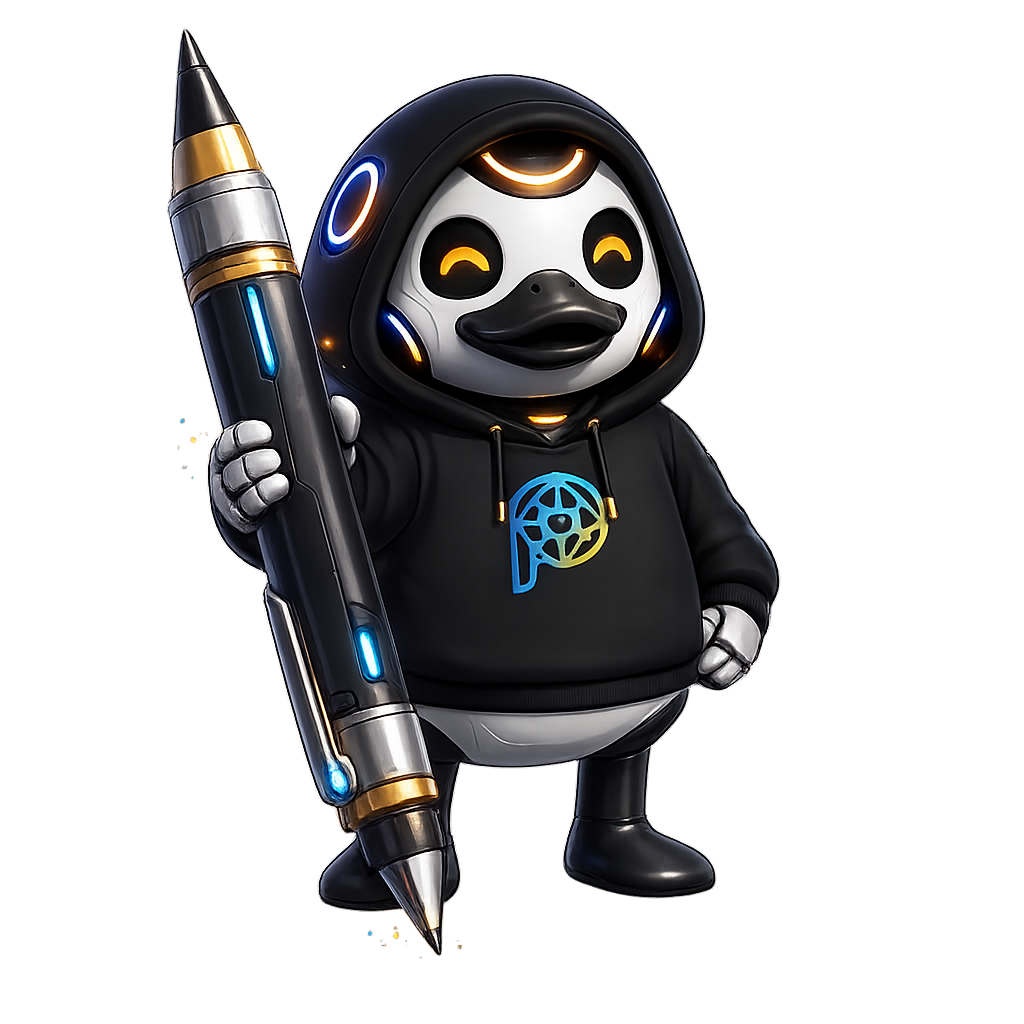
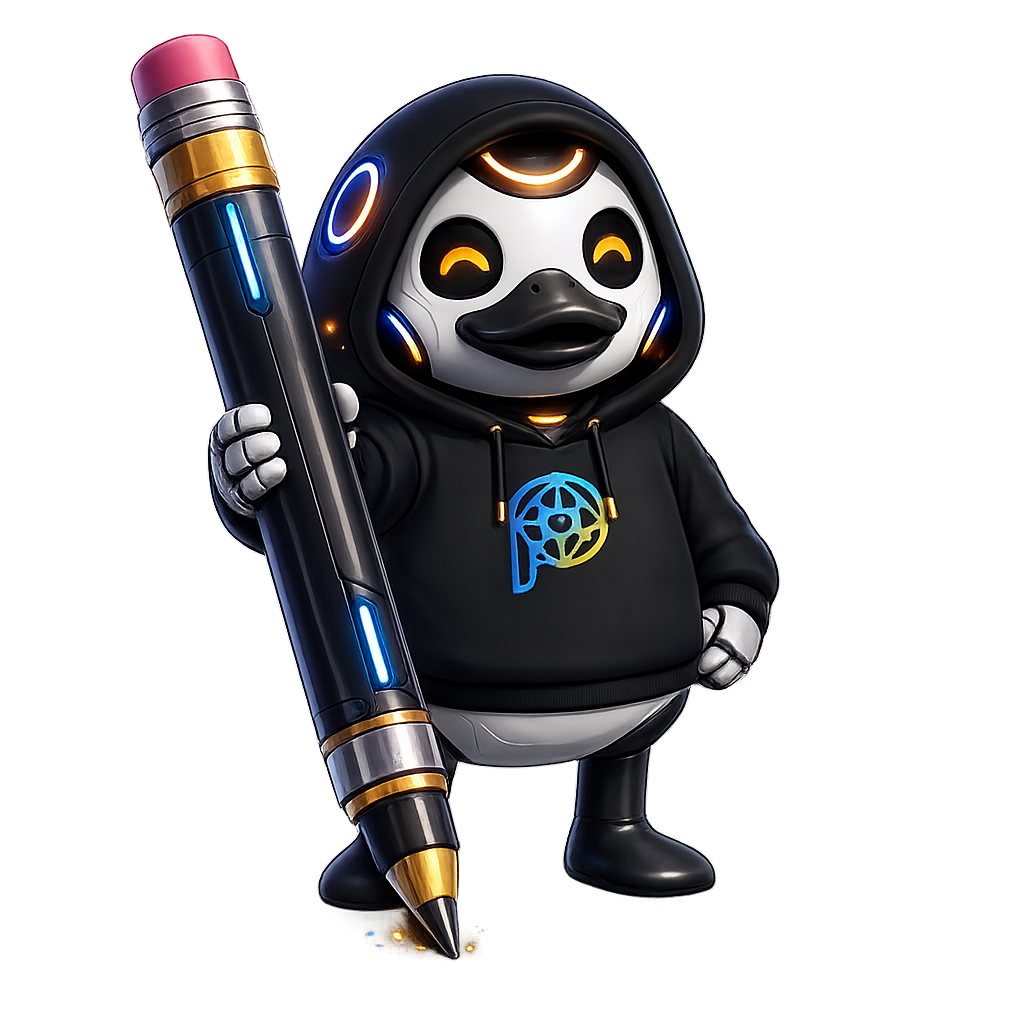
arreglos tamaños profile y matching

diff --git a/src/pages/SchedulePage.tsx b/src/pages/SchedulePage.tsx
@@ -1,9 +1,10 @@
 import { useNavigate } from 'react-router';
 import { motion } from 'motion/react';
-import { ChevronLeft, Trash2, CheckCircle2 } from 'lucide-react';
+import { ChevronLeft, Trash2, CheckCircle2, CalendarDays } from 'lucide-react';
 import { useApp } from '../store/AppContext';
 import { useScheduleStore } from '../store/scheduleStore';
-import { GRADIENT, GOLD_LIGHT, GOLD_GRADIENT } from '../types/mockData';
+import { GOLD_LIGHT, GOLD_GRADIENT } from '../types/mockData';
+import patyHorario from '../assets/patyHorario.png';
 export const SLOTS = [
   { start: '7:00',  startP: 'AM', end: '8:30',  endP: 'AM' },
   { start: '8:30',  startP: 'AM', end: '10:00', endP: 'AM' },
@@ -29,26 +30,31 @@ export function SchedulePage() {
   const { slots, toggle, clear } = useScheduleStore();
   const isSelected  = (day: string, i: number) => slots.includes(`${day}-${i}`);
   const totalSlots  = slots.length;
-  const gridLine = isDark ? '#1E3A5F' : '#F0F0F0';
+  const gridLine = isDark ? '#1E3A5F' : '#E2E8F0';
   const headerBg = isDark ? 'rgba(10,25,47,0.97)' : 'rgba(253,252,248,0.95)';
   const cardBg   = isDark ? '#112240' : '#FFFFFF';
-  const timeTxt  = isDark ? '#4A6080' : '#9CA3AF';
-  const dayTxt   = isDark ? '#6B8AAA' : '#6B7280';
+  const timeTxt  = isDark ? '#4A6080' : '#64748B';
+  const dayTxt   = isDark ? '#6B8AAA' : '#374151';
   return (
-    <div className="min-h-screen" style={{ background: 'transparent' }}>
-      {}
+    <div className="min-h-screen w-full md:w-4/6 md:mx-auto" style={{ background: 'transparent' }}>
       <div
-        className="sticky top-[57px] z-30 px-4 py-3 flex items-center justify-between border-b"
+        className="sticky top-[57px] z-30 px-4 py-2 flex items-center justify-between border-b"
         style={{ background: headerBg, borderColor: gridLine, backdropFilter: 'blur(16px)' }}
       >
-        <div className="flex items-center gap-3">
+        <div className="flex items-center gap-2">
           <button
             onClick={() => navigate(-1)}
-            className="w-9 h-9 rounded-xl flex items-center justify-center"
+            className="w-9 h-9 rounded-xl flex items-center justify-center flex-shrink-0"
             style={{ background: isDark ? '#0A192F' : 'rgba(10,25,47,0.07)', color: timeTxt }}
           >
             <ChevronLeft size={20} />
           </button>
+          <div
+            className="w-9 h-9 rounded-xl flex items-center justify-center flex-shrink-0"
+            style={{ background: GOLD_GRADIENT }}
+          >
+            <CalendarDays size={17} color="white" />
+          </div>
           <div>
             <h1 className="text-gray-900 dark:text-white" style={{ fontSize: '1rem', lineHeight: 1.2 }}>
               Mi Disponibilidad
@@ -60,16 +66,19 @@ export function SchedulePage() {
             </p>
           </div>
         </div>
-        {totalSlots > 0 && (
-          <motion.button
-            whileTap={{ scale: 0.92 }}
-            onClick={clear}
-            className="flex items-center gap-1.5 px-3 py-1.5 rounded-xl text-xs font-semibold"
-            style={{ background: 'rgba(239,68,68,0.1)', color: '#EF4444' }}
-          >
-            <Trash2 size={12} /> Limpiar
-          </motion.button>
-        )}
+        <div className="flex items-center gap-2">
+          <img src={patyHorario} alt="Paty" className="h-24 w-auto drop-shadow-md" style={{ mixBlendMode: isDark ? 'screen' : 'multiply' }} />
+          {totalSlots > 0 && (
+            <motion.button
+              whileTap={{ scale: 0.92 }}
+              onClick={clear}
+              className="flex items-center gap-1.5 px-3 py-1.5 rounded-xl text-xs font-semibold"
+              style={{ background: 'rgba(239,68,68,0.1)', color: '#EF4444' }}
+            >
+              <Trash2 size={12} /> Limpiar
+            </motion.button>
+          )}
+        </div>
       </div>
       {}
       <div className="px-4 pt-3 pb-1">
@@ -77,8 +86,25 @@ export function SchedulePage() {
           Toca cualquier celda para marcarla · Toca de nuevo para quitarla
         </p>
       </div>
-      {}
       <div className="px-3 py-3 pb-10">
+        {totalSlots > 0 && (
+          <motion.div
+            initial={{ opacity: 0, y: -8 }}
+            animate={{ opacity: 1, y: 0 }}
+            className="mb-3 rounded-2xl px-4 py-3 flex items-center gap-3"
+            style={{ background: isDark ? 'rgba(217,119,6,0.08)' : 'rgba(245,158,11,0.10)', border: `1px solid ${GOLD_LIGHT}44` }}
+          >
+            <CheckCircle2 size={18} style={{ color: GOLD_LIGHT }} />
+            <div>
+              <p className="text-sm font-bold" style={{ color: GOLD_LIGHT }}>
+                {totalSlots} franja{totalSlots !== 1 ? 's' : ''} marcada{totalSlots !== 1 ? 's' : ''}
+              </p>
+              <p className="text-[11px]" style={{ color: timeTxt }}>
+                {totalSlots * 1.5} horas de disponibilidad en la semana
+              </p>
+            </div>
+          </motion.div>
+        )}
         <div
           className="rounded-2xl overflow-hidden shadow-sm"
           style={{ background: cardBg, border: `1px solid ${gridLine}` }}
@@ -113,11 +139,11 @@ export function SchedulePage() {
                     style={{ height: SLOT_H, borderRight: `1px solid ${gridLine}` }}
                   >
                     <span className="text-[9px] font-bold leading-none" style={{ color: timeTxt }}>
-                      {slot.start} <span style={{ color: isDark ? '#2A4A6A' : '#D1D5DB' }}>{slot.startP}</span>
+                      {slot.start} <span style={{ color: isDark ? '#2A4A6A' : '#94A3B8' }}>{slot.startP}</span>
                     </span>
-                    <div className="w-6 border-t" style={{ borderColor: isDark ? '#2A4A6A' : '#E5E7EB' }} />
+                    <div className="w-6 border-t" style={{ borderColor: isDark ? '#2A4A6A' : '#CBD5E1' }} />
                     <span className="text-[9px] font-bold leading-none" style={{ color: timeTxt }}>
-                      {slot.end} <span style={{ color: isDark ? '#2A4A6A' : '#D1D5DB' }}>{slot.endP}</span>
+                      {slot.end} <span style={{ color: isDark ? '#2A4A6A' : '#94A3B8' }}>{slot.endP}</span>
                     </span>
                   </div>
                   {}
@@ -133,7 +159,7 @@ export function SchedulePage() {
                           height: SLOT_H,
                           borderRight: di < DAYS.length - 1 ? `1px solid ${gridLine}` : 'none',
                           background: selected
-                            ? (isDark ? 'rgba(217,119,6,0.18)' : 'rgba(245,158,11,0.12)')
+                            ? (isDark ? 'rgba(217,119,6,0.22)' : 'rgba(245,158,11,0.18)')
                             : 'transparent',
                         }}
                       >
@@ -155,25 +181,6 @@ export function SchedulePage() {
             </div>
           </div>
         </div>
-        {}
-        {totalSlots > 0 && (
-          <motion.div
-            initial={{ opacity: 0, y: 8 }}
-            animate={{ opacity: 1, y: 0 }}
-            className="mt-3 rounded-2xl px-4 py-3 flex items-center gap-3"
-            style={{ background: isDark ? 'rgba(217,119,6,0.08)' : 'rgba(245,158,11,0.06)', border: `1px solid ${GOLD_LIGHT}44` }}
-          >
-            <CheckCircle2 size={18} style={{ color: GOLD_LIGHT }} />
-            <div>
-              <p className="text-sm font-bold" style={{ color: GOLD_LIGHT }}>
-                {totalSlots} franja{totalSlots !== 1 ? 's' : ''} marcada{totalSlots !== 1 ? 's' : ''}
-              </p>
-              <p className="text-[11px]" style={{ color: timeTxt }}>
-                {totalSlots * 1.5} horas de disponibilidad en la semana
-              </p>
-            </div>
-          </motion.div>
-        )}
       </div>
     </div>
   );

diff --git a/src/pages/MatchesPage.tsx b/src/pages/MatchesPage.tsx
@@ -6,7 +6,7 @@ import patyImg from '../assets/patyMatch.png';
 import {
   Heart, X, Filter, ChevronDown, Sparkles, Users,
   Clock, LocateFixed, CheckCircle2, Navigation, Send,
-  UserPlus, UserCheck, Zap, Search,
+  UserPlus, UserCheck, Zap, Search, ChevronLeft,
 } from 'lucide-react';
 import { useApp } from '../store/AppContext';
 import { matchUsers, GRADIENT, TEAL, TEAL_GRADIENT, interestOptions } from '../types/mockData';
@@ -148,9 +148,16 @@ export function MatchesPage() {
           : { background: 'rgba(253,252,248,0.92)', borderColor: 'rgba(10,25,47,0.07)', boxShadow: '0 2px 16px rgba(10,25,47,0.07)' }
         }
       >
-        <div className="max-w-2xl mx-auto px-5 pt-4 pb-3">
+        <div className="w-full md:w-4/6 md:mx-auto px-5 pt-4 pb-3">
           <div className="flex items-center justify-between mb-3">
             <div className="flex items-center gap-3">
+              <button
+                onClick={() => navigate(-1)}
+                className="w-9 h-9 rounded-xl flex items-center justify-center flex-shrink-0 text-gray-600 dark:text-gray-400"
+                style={{ background: isDark ? 'rgba(17,34,64,0.8)' : 'rgba(10,25,47,0.07)' }}
+              >
+                <ChevronLeft size={20} />
+              </button>
               <div
                 className="w-12 h-12 rounded-2xl flex items-center justify-center flex-shrink-0 shadow-lg"
                 style={{ background: TEAL_GRADIENT }}
@@ -161,7 +168,7 @@ export function MatchesPage() {
                 <h1 className="text-gray-900 dark:text-white font-black" style={{ fontSize: '1.7rem', lineHeight: 1.1 }}>
                   Perfect Match
                 </h1>
-                <p className="text-xs" style={{ color: isDark ? '#4A6080' : '#9CA3AF' }}>
+                <p className="text-xs" style={{ color: isDark ? '#4A6080' : '#6B7280' }}>
                   {activeTab === 'explore' && 'Encuentra tu tribu universitaria'}
                   {activeTab === 'sent' && `${filteredUsers.length} solicitudes enviadas`}
                   {activeTab === 'received' && `${filteredUsers.length} solicitudes pendientes`}
@@ -196,7 +203,7 @@ export function MatchesPage() {
         </div>
 
         <div className="border-t overflow-x-auto scrollbar-hide" style={{ borderColor: isDark ? '#1E3A5F' : 'rgba(10,25,47,0.07)' }}>
-          <div className="flex gap-1.5 px-5 py-2.5 max-w-2xl mx-auto">
+          <div className="flex gap-1.5 px-5 py-2.5 w-full md:w-4/6 md:mx-auto">
             {tabs.map(tab => {
               const Icon = tab.icon;
               const isActive = activeTab === tab.id;
@@ -225,7 +232,7 @@ export function MatchesPage() {
 
         {(activeTab === 'explore' || activeTab === 'friends') && (
           <div
-            className="border-t px-5 py-2.5 max-w-2xl mx-auto w-full"
+            className="border-t px-5 py-2.5 w-full md:w-4/6 md:mx-auto"
             style={{ borderColor: isDark ? '#1E3A5F' : 'rgba(10,25,47,0.07)' }}
           >
             <div
@@ -255,7 +262,7 @@ export function MatchesPage() {
 
         {activeTab === 'explore' && (
           <div
-            className="border-t px-5 py-2 flex items-center gap-2 max-w-2xl mx-auto w-full"
+            className="border-t px-5 py-2 flex items-center gap-2 w-full md:w-4/6 md:mx-auto"
             style={{ borderColor: isDark ? '#1E3A5F' : 'rgba(10,25,47,0.07)' }}
           >
             <button
@@ -300,7 +307,7 @@ export function MatchesPage() {
               className="overflow-hidden border-t"
               style={{ borderColor: isDark ? '#1E3A5F' : 'rgba(10,25,47,0.07)' }}
             >
-              <div className="px-5 py-4 space-y-3 max-w-2xl mx-auto w-full">
+              <div className="px-5 py-4 space-y-3 w-full md:w-4/6 md:mx-auto">
                 <div>
                   <label className="text-[10px] font-bold uppercase tracking-widest mb-2 block" style={{ color: isDark ? '#4A6080' : '#9CA3AF' }}>
                     Programa
@@ -422,7 +429,7 @@ export function MatchesPage() {
         </AnimatePresence>
       </div>
 
-      <div className="px-4 py-5 pb-28 max-w-2xl mx-auto w-full">
+      <div className="px-4 py-5 pb-28 w-full md:w-4/6 md:mx-auto">
         <AnimatePresence>
           {activeTab === 'explore' && nearbySuggestions.length > 0 && (
             <motion.div
@@ -516,7 +523,7 @@ export function MatchesPage() {
             </p>
           </div>
         ) : (
-          <div className="grid grid-cols-4 gap-2">
+          <div className="grid grid-cols-2 sm:grid-cols-3 md:grid-cols-4 gap-2">
             {filteredUsers.map((user, i) => {
               const status = getConnectionStatus(user.id, user.connectionStatus);
               const grad = getCardGradient(user.matchPercent);

diff --git a/src/pages/EditProfilePage.tsx b/src/pages/EditProfilePage.tsx
@@ -5,8 +5,9 @@ import { motion, AnimatePresence } from 'motion/react';
 import {
   ArrowLeft, Camera, Check, X, Upload, AlertCircle,
   Trophy, Palette, Compass, UtensilsCrossed, Leaf, Gamepad2, Music, Heart, ChevronRight,
-  Lock, Globe, Users,
+  Lock, Globe, Users, Edit2,
 } from 'lucide-react';
+import patyEdit from '../assets/patyEdit.png';
 import { useApp } from '../store/AppContext';
 import { GRADIENT, PINK } from '../types/mockData';
 
@@ -248,17 +249,24 @@ export function EditProfilePage() {
 
   return (
     <div className="min-h-screen pb-8">
-      <div className="bg-white dark:bg-[#151729] px-4 py-4 flex items-center gap-3 shadow-sm sticky top-[57px] z-10 border-b border-gray-100 dark:border-[#2A2D4A]">
+      <div className="bg-white dark:bg-[#151729] px-4 py-3 flex items-center gap-3 shadow-sm sticky top-[57px] z-10 border-b border-gray-100 dark:border-[#2A2D4A]">
         <button
           onClick={() => navigate(-1)}
           className="w-9 h-9 rounded-full flex items-center justify-center bg-gray-100 dark:bg-[#1E2038] text-gray-500 dark:text-gray-400 hover:bg-gray-200 dark:hover:bg-[#252844] transition-colors active:scale-90"
         >
           <ArrowLeft size={18} />
         </button>
+        <div
+          className="w-9 h-9 rounded-xl flex items-center justify-center flex-shrink-0"
+          style={{ background: GRADIENT }}
+        >
+          <Edit2 size={15} color="white" />
+        </div>
         <div className="flex-1">
           <h1 className="text-gray-900 dark:text-white text-base font-semibold">Editar Perfil</h1>
           <p className="text-xs text-gray-400">Actualiza tu información</p>
         </div>
+        <img src={patyEdit} alt="Paty" className="h-20 w-auto drop-shadow-md" style={{ mixBlendMode: isDark ? 'screen' : 'multiply' }} />
         <button
           onClick={handleSave}
           disabled={!canSave}
@@ -274,7 +282,7 @@ export function EditProfilePage() {
         </button>
       </div>
 
-      <div className="px-4 pt-6 max-w-lg mx-auto space-y-5">
+      <div className="px-4 pt-6 w-full md:w-4/6 md:mx-auto space-y-5">
         <div className="flex flex-col items-center gap-3">
           <div className="relative">
             <div className="w-24 h-24 rounded-2xl overflow-hidden" style={{ boxShadow: `0 0 0 3px ${PINK}` }}>
@@ -327,15 +335,6 @@ export function EditProfilePage() {
             className="w-full px-4 py-3 rounded-xl bg-white dark:bg-[#151729] border border-gray-200 dark:border-[#2A2D4A] text-gray-800 dark:text-white placeholder-gray-400 focus:outline-none focus:border-[#E8245A] transition-all resize-none"
           />
           <p className="text-right text-[10px] text-gray-400 mt-0.5">{bio.length}/200</p>
-        </div>
-
-        <div>
-          <label className="block text-sm font-medium text-gray-700 dark:text-gray-300 mb-1.5">Código estudiantil</label>
-          <div
-            className="w-full px-4 py-3.5 rounded-xl bg-gray-50 dark:bg-[#1E2038] border border-gray-200 dark:border-[#2A2D4A] text-gray-500 dark:text-gray-400 text-sm"
-          >
-            {currentUser.studentId || 'No disponible'}
-          </div>
         </div>
 
         <div>

diff --git a/src/pages/ProfilePage.tsx b/src/pages/ProfilePage.tsx
@@ -104,7 +104,7 @@ export function ProfilePage() {
 
   return (
     <div className="flex flex-col min-h-screen pb-4">
-      <div className="max-w-2xl mx-auto w-full px-5 pt-5 pb-4 flex items-center justify-between">
+      <div className="w-full md:w-4/6 md:mx-auto px-5 pt-5 pb-4 flex items-center justify-between">
         <div className="flex items-center gap-3">
           <button
             onClick={() => navigate(-1)}
@@ -151,7 +151,7 @@ export function ProfilePage() {
         </div>
       </div>
 
-      <div className="max-w-2xl mx-auto w-full">
+      <div className="w-full md:w-4/6 md:mx-auto">
       <div className="px-5 mb-4">
         <motion.div
           initial={{ opacity: 0, y: 10 }}
@@ -328,15 +328,15 @@ export function ProfilePage() {
       <div className="px-5 mb-4">
         <div
           className="rounded-2xl p-4 flex items-center gap-4 cursor-pointer active:scale-[0.98] transition-all"
-          style={{ background: GRADIENT }}
+          style={{ background: 'linear-gradient(135deg, #F9A8D4 0%, #EC4899 60%, #BE185D 100%)' }}
           onClick={() => navigate('/wellness')}
         >
           <div className="w-10 h-10 rounded-xl bg-white flex items-center justify-center flex-shrink-0">
-            <Heart size={20} color="#EF4444" strokeWidth={2.5} />
+            <Heart size={20} color="#EC4899" strokeWidth={2.5} />
           </div>
           <div className="flex-1">
             <p className="text-white font-semibold text-sm">Soporte y Bienestar 24/7</p>
-            <p className="text-white/70 text-xs">Estamos aquí para escucharte siempre</p>
+            <p className="text-white/80 text-xs">Estamos aquí para escucharte siempre</p>
           </div>
           <ChevronRight size={18} color="white" />
         </div>

diff --git a/src/pages/RegisterPage.tsx b/src/pages/RegisterPage.tsx
@@ -524,9 +524,9 @@ export function RegisterPage() {
           </button>
         </div>
         <div className="flex-1 overflow-y-auto">
-          <div className="flex flex-col px-4 sm:px-6 md:px-8 pb-8 w-full max-w-xl mx-auto">
+          <div className="flex flex-col px-4 sm:px-6 md:px-8 pb-8 w-full max-w-xl mx-auto items-center">
           <div
-            className="rounded-3xl px-6 py-5 mb-2"
+            className="rounded-3xl px-6 py-5 mb-2 w-full"
             style={{
               background: isDark ? 'rgba(8,16,40,0.72)' : 'rgba(255,255,255,0.72)',
               backdropFilter: 'blur(16px)',
@@ -995,6 +995,9 @@ export function RegisterPage() {
               </motion.div>
             )}
           </AnimatePresence>
+          </div>
+          <div className="flex md:hidden justify-center pt-4 pb-4 w-full">
+            <img src={patyRegistro} alt="Paty" className="w-auto object-contain drop-shadow-2xl" style={{ maxHeight: '30vh' }} />
           </div>
           </div>
         </div>